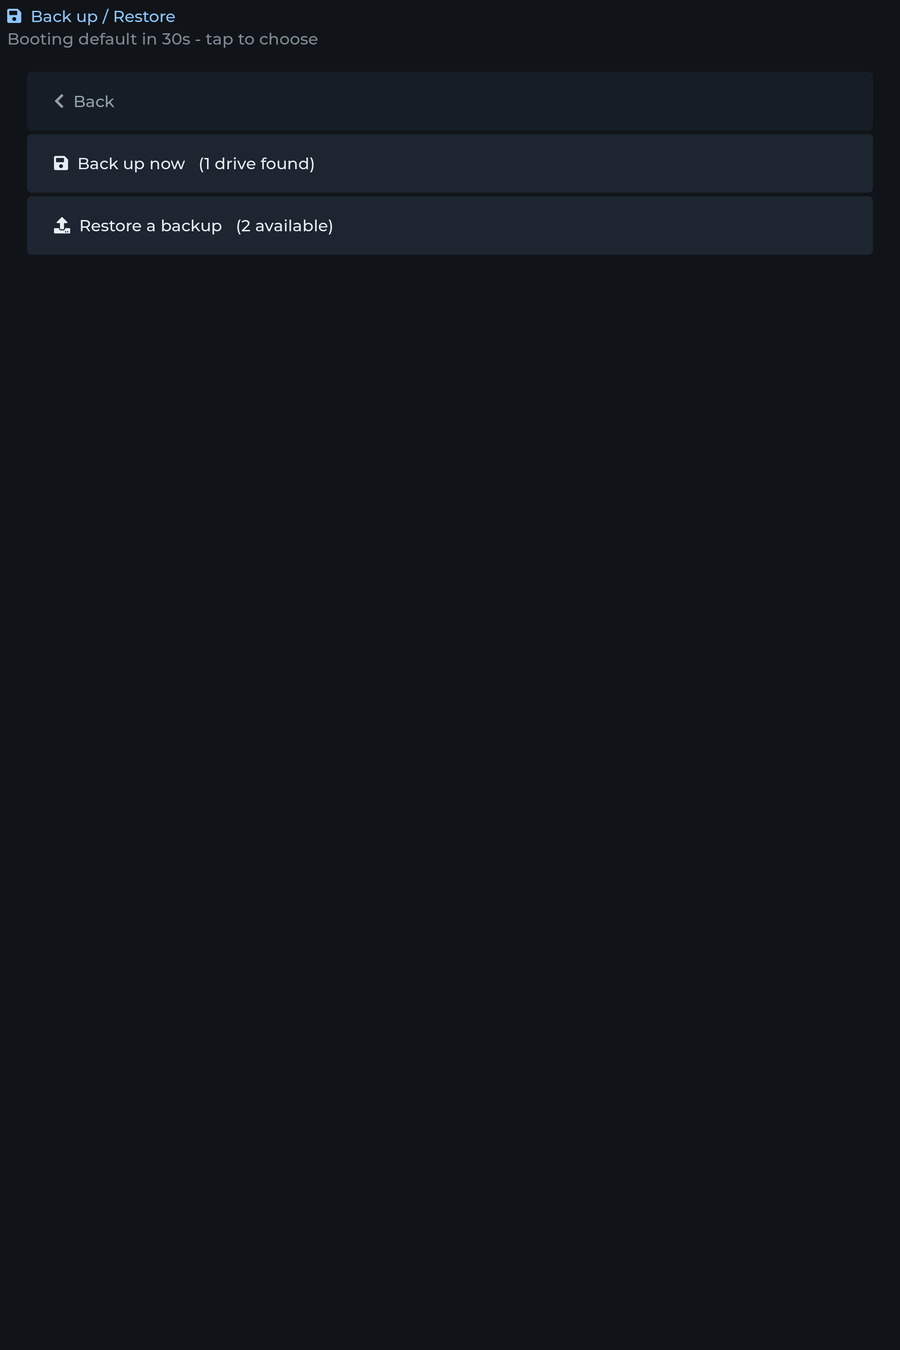
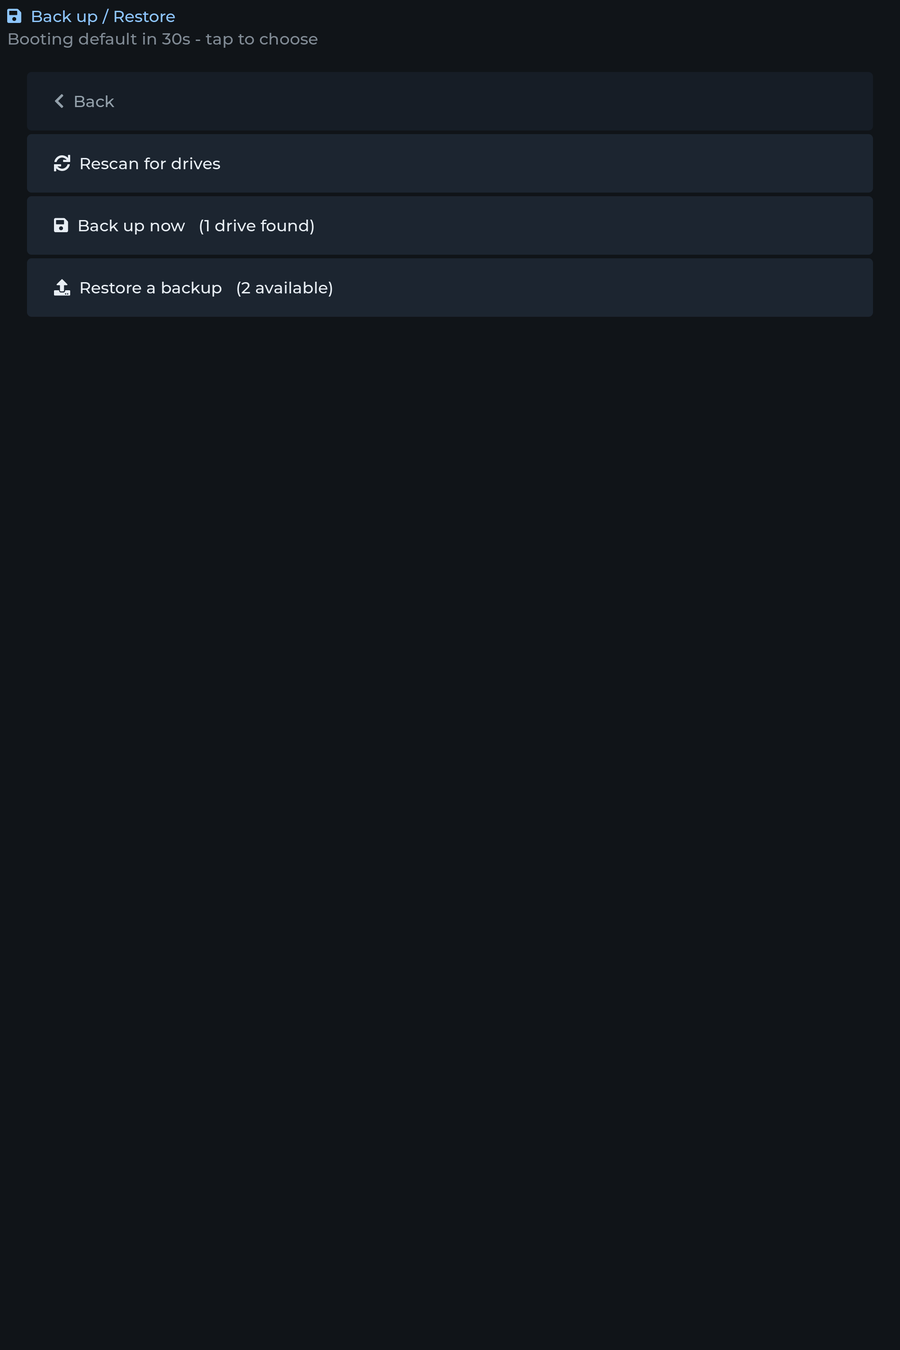
picker: rescan for drives, because the drive cannot be there at boot
Bob hit this immediately and it makes the whole feature unusable
without it: with no keyboard attached there is no way to tell the
firmware to skip a bootable USB stick, so plugging the Ventoy drive in
before rebooting boots VENTOY instead of the picker. The drive has to
arrive after the picker is already running - and discovery ran exactly
once, in init, before that.

Adds a Rescan row at the top of the Back up / Restore menu. It is the
first row rather than a corner case, because arriving with no drive
attached is the normal way to reach that screen, not a recovery path.
The empty-state text says so too, and says why, instead of the previous
advice to plug it in and reboot - which is precisely what does not work
here.

scan-drives.sh now owns discovery and both callers use it: init before
the menu is drawn, picker on every Rescan. One source of truth rather
than the same loop written twice, and init's copy was already the second
one.

Hotplug itself needs nothing: /dev is devtmpfs, so the kernel creates
the node when the drive enumerates. The only thing missing was looking
again.

The rescan is synchronous - about a second, since it mounts each
candidate read-only to identify it - so the row's label changes to
"Scanning..." and the screen is forced to repaint BEFORE it blocks. This
display is driven manually, so without that the UI would just sit still
with the old label showing, which is the same class of problem as the
Edit dialog coming up blank.
[…]

Changed region(s): [[0.0622, 0.1556, 0.3733, 0.2178], [0.0622, 0.0933, 0.3111, 0.1244]]

diff --git a/ui/picker.c b/ui/picker.c
@@ -1364,6 +1364,63 @@ static int g_target_n;
 static struct backup *g_backups;
 static int g_backup_n;
 
+/* Re-runs drive discovery while the picker is running.
+ *
+ * This is not a convenience. The Ventoy drive cannot be plugged in at
+ * boot: with no keyboard there is no way to tell the firmware to skip a
+ * bootable USB stick, so the machine boots Ventoy instead of the picker.
+ * The drive has to arrive afterwards, which makes a scan done once at
+ * startup useless for the only workflow available.
+ *
+ * Synchronous on purpose. It takes about a second - it mounts each
+ * candidate read-only to identify it - and a progress screen for that
+ * would be more machinery than the wait deserves. The label is changed
+ * and the screen forced to repaint first, so the UI does not simply
+ * freeze with no explanation. */
+static const char *scan_script(void) {
+    const char *s = getenv("PICKER_SCAN_SH");
+    return s ? s : "/bin/scan-drives.sh";
+}
+
+static char g_targets_path[256];
+static char g_backups_path[256];
+
+static int rescan_drives(void) {
+    const char *script = scan_script();
+    if (access(script, X_OK) != 0) return -1;
+    if (!g_targets_path[0] || !g_backups_path[0]) return -1;
+
+    const char *rootdev = getenv("REAL_ROOT_DEV");
+    const char *rootmnt = getenv("PICKER_ROOT");
+
+    pid_t pid = fork();
+    if (pid < 0) return -1;
+    if (pid == 0) {
+        /* The scan's own chatter would land on picker's stderr and end
+         * up in the boot log for no reason; it reports through the
+         * files it writes. */
+        int devnull = open("/dev/null", O_WRONLY);
+        if (devnull >= 0) { dup2(devnull, STDOUT_FILENO); dup2(devnull, STDERR_FILENO); }
+        execl(script, script,
+              rootdev ? rootdev : "/dev/mmcblk0p2",
+              rootmnt ? rootmnt : "/mnt/root",
+              g_targets_path, g_backups_path, (char *)NULL);
+        _exit(127);
+    }
+    int st = 0;
+    waitpid(pid, &st, 0);
+    if (!(WIFEXITED(st) && WEXITSTATUS(st) == 0)) return -1;
+
+    /* Reload both lists from what the scan just wrote. */
+    static struct target targets[16];
+    static struct backup backups[64];
+    g_target_n = load_targets(g_targets_path, targets, 16);
+    g_targets = g_target_n ? targets : NULL;
+    g_backup_n = load_backups(g_backups_path, backups, 64);
+    g_backups = g_backup_n ? backups : NULL;
+    return 0;
+}
+
 static const char *backup_script(void) {
     const char *s = getenv("PICKER_BACKUP_SH");
     return s ? s : "/bin/backup-system.sh";
@@ -1574,6 +1631,7 @@ static void show_install_list(void);
 static void show_remove_list(void);
 static void show_backup_menu(void);
 static void show_backup_targets(void);
+static void rescan_cb(lv_event_t *e);
 static void show_restore_list(void);
 
 static lv_obj_t *make_row_h(const char *icon, const char *text, int dimmed, int h) {
@@ -1638,10 +1696,29 @@ static void show_main_menu(void) {
     lv_obj_add_event_cb(b, nav_cb, LV_EVENT_CLICKED, (void *)show_backup_menu);
 }
 
+static void rescan_cb(lv_event_t *e) {
+    lv_obj_t *btn = lv_event_get_target(e);
+    lv_obj_t *lbl = lv_obj_get_child(btn, 0);
+    /* Say what is happening and get it on screen BEFORE blocking - this
+     * display is driven manually, so without the forced repaint the UI
+     * would simply sit still for a second with the old label showing. */
+    if (lbl) lv_label_set_text(lbl, LV_SYMBOL_REFRESH "  Scanning...");
+    lv_refr_now(NULL);
+
+    rescan_drives();
+    show_backup_menu();
+}
+
 static void show_backup_menu(void) {
     lv_obj_clean(g_list);
     lv_label_set_text(g_header, LV_SYMBOL_SAVE "  Back up / Restore");
     add_back_row(show_main_menu);
+
+    /* First row, because with no keyboard the drive cannot be present
+     * at boot - this is the normal way to get here, not a recovery
+     * path. */
+    lv_obj_t *rs = make_row(LV_SYMBOL_REFRESH, "Rescan for drives", 0);
+    lv_obj_add_event_cb(rs, rescan_cb, LV_EVENT_CLICKED, NULL);
 
     char buf[96];
     snprintf(buf, sizeof(buf), "Back up now   (%d drive%s found)",
@@ -1656,8 +1733,10 @@ static void show_backup_menu(void) {
     if (g_target_n == 0) {
         lv_obj_t *l = lv_label_create(g_list);
         lv_label_set_text(l, "No external drive found.\n\n"
-                             "Plug one in and reboot the picker - it looks\n"
-                             "for drives once, at startup.");
+                             "Plug the drive in now, then tap Rescan.\n\n"
+                             "It cannot be plugged in before booting: with no\n"
+                             "keyboard attached the firmware would boot the\n"
+                             "USB stick instead of the picker.");
         lv_obj_set_style_text_color(l, lv_color_hex(0x93a0aa), 0);
     }
 }
@@ -1902,8 +1981,16 @@ int main(int argc, char **argv) {
     if (argc > 3) load_saved_cmdlines(argv[3]);
     static struct target targets[16];
     static struct backup backups[64];
-    if (argc > 4) { g_target_n = load_targets(argv[4], targets, 16); g_targets = targets; }
-    if (argc > 5) { g_backup_n = load_backups(argv[5], backups, 64); g_backups = backups; }
+    if (argc > 4) {
+        snprintf(g_targets_path, sizeof(g_targets_path), "%.255s", argv[4]);
+        g_target_n = load_targets(argv[4], targets, 16);
+        g_targets = g_target_n ? targets : NULL;
+    }
+    if (argc > 5) {
+        snprintf(g_backups_path, sizeof(g_backups_path), "%.255s", argv[5]);
+        g_backup_n = load_backups(argv[5], backups, 64);
+        g_backups = g_backup_n ? backups : NULL;
+    }
 
     /* Booted from the initramfs we are in a footrace with driver probe:
      * init reaches this point within ~0.85s of the kernel starting

diff --git a/ui/test-install.c b/ui/test-install.c
@@ -157,6 +157,48 @@ int main(void) {
         g_targets = NULL; g_target_n = 0; g_backups = NULL; g_backup_n = 0;
     }
 
+    /* --- rescan: the drive cannot be present at boot --- */
+    {
+        /* With no keyboard, plugging the Ventoy stick in before reboot
+         * makes the firmware boot Ventoy instead of the picker. So the
+         * drive arrives while the picker is already running, and a scan
+         * done once at startup would never see it. */
+        setenv("PICKER_SCAN_SH", "/nonexistent/scan-drives.sh", 1);
+        ck(rescan_drives() == -1, "rescan fails cleanly when the scan script is missing");
+
+        FILE *sf = fopen("/tmp/mock-scan.sh", "w");
+        fprintf(sf,
+            "#!/bin/sh\n"
+            "printf '/dev/sdb1\\texfat\\t\\t931G\\t742G\\n' > \"$3\"\n"
+            "printf '/dev/sdb1\\tafter-hotplug\\tnow\\t84G\\n' > \"$4\"\n"
+            "exit 0\n");
+        fclose(sf); chmod("/tmp/mock-scan.sh", 0755);
+        setenv("PICKER_SCAN_SH", "/tmp/mock-scan.sh", 1);
+
+        snprintf(g_targets_path, sizeof(g_targets_path), "/tmp/mock-t.tsv");
+        snprintf(g_backups_path, sizeof(g_backups_path), "/tmp/mock-b.tsv");
+        g_target_n = 0; g_targets = NULL;
+        g_backup_n = 0; g_backups = NULL;
+
+        ck(rescan_drives() == 0, "rescan runs the scan script");
+        ck(g_target_n == 1, "a drive plugged in AFTER boot is now found");
+        ck(!strcmp(g_targets[0].dev, "/dev/sdb1"), "with the right device");
+        ck(g_backup_n == 1 && !strcmp(g_backups[0].name, "after-hotplug"),
+           "and the backups on it are picked up too");
+
+        /* Unplugged again: the lists must empty, not keep stale entries
+         * pointing at a device that is gone. */
+        sf = fopen("/tmp/mock-scan.sh", "w");
+        fprintf(sf, "#!/bin/sh\n: > \"$3\"\n: > \"$4\"\nexit 0\n");
+        fclose(sf); chmod("/tmp/mock-scan.sh", 0755);
+        ck(rescan_drives() == 0, "rescan runs again");
+        ck(g_target_n == 0 && g_targets == NULL, "an unplugged drive disappears from the list");
+        ck(g_backup_n == 0 && g_backups == NULL, "and so do its backups");
+
+        remove("/tmp/mock-scan.sh"); remove("/tmp/mock-t.tsv"); remove("/tmp/mock-b.tsv");
+        g_targets_path[0] = '\0'; g_backups_path[0] = '\0';
+    }
+
     /* --- saved per-kernel command lines --- */
     {
         FILE *sf = fopen("/tmp/mock-saved-cmdline", "w");
